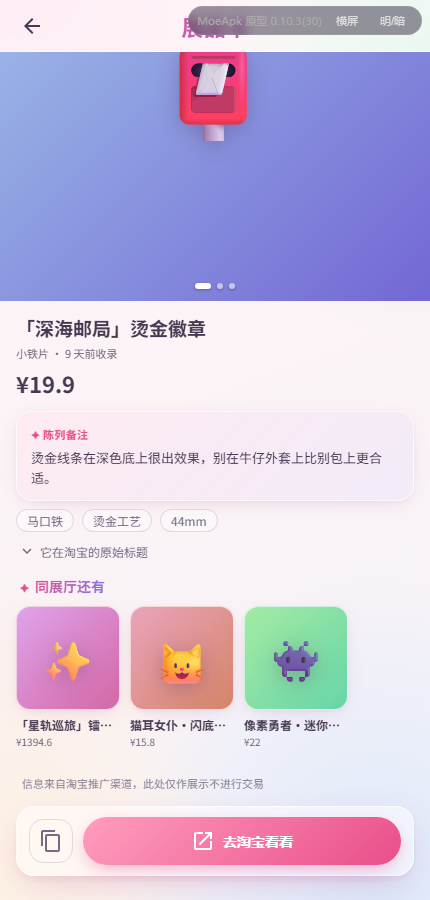
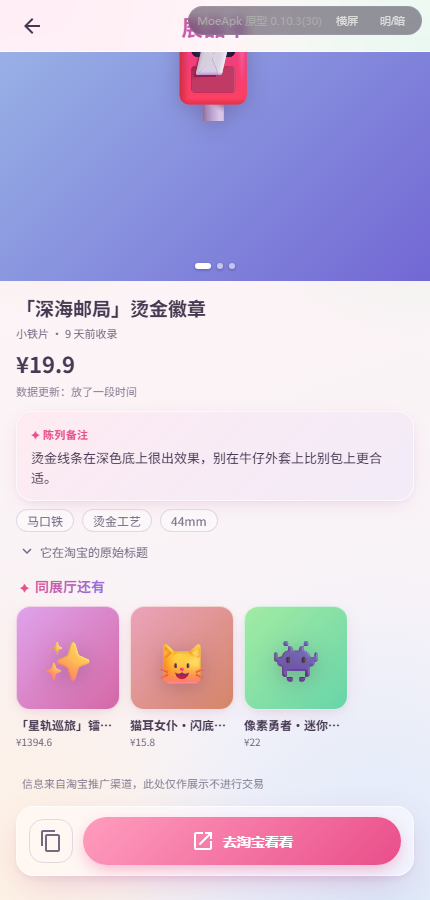
原型: 数据落灰度——详情页价格行下小字「数据更新：…」五档文案（刚刚擦新/放了两三天了/放了一段时间/有点落灰了/落灰了），失效展品恒为「这是古董」；依据 feed fresh_days（数据年龄）而非收录天数；演示数据补五档样本；资源版本号 v=43；PROTO_COMMIT 更新至 5223965；走查留档 shot-43

Changed region(s): [[0.0, 0.28, 1.0, 0.4667], [0.393, 0.0311, 0.5744, 0.1556]]

diff --git a/js/data/goods.js b/js/data/goods.js
@@ -10,6 +10,7 @@
 //   price  真实价（非引流最低价）；list 为淘宝划线价（可无）——feed 契约均为字符串，渲染端须兼容
 //   days   收录天数；tpwd 为预生成淘口令（真实环境由服务端 taobao.tbk.tpwd.create 预生成）
 //   stale  可能已失效标记（后台手动刷新时联盟查无此商品）：不下架、保留展示，详情页提示可搜同款
+//   fresh_days 数据年龄（距最近一次联盟核实的天数，服务端算出）：详情页落灰度文案依据
 //   图片一律 emoji + 色相（hue）渐变占位——原型不内嵌任何外部图片。
 window.DB = window.DB || {};
 
@@ -52,15 +53,15 @@ window.DB.GOODS_HOME = {
 
 window.DB.GOODS = [
   // ---------- 小铁片 ----------
-  { id: 'g01', cat: 'badge', title: '「星轨巡旅」镭射吧唧六枚组', price: 25.9, list: 32, emoji: '✨', hue: 290, days: 2,
+  { id: 'g01', cat: 'badge', title: '「星轨巡旅」镭射吧唧六枚组', price: 25.9, list: 32, emoji: '✨', hue: 290, days: 2, fresh_days: 0,
     note: '镭射底在光下会慢慢转色，别在帆布包肩带上正好。这家的边缘打磨得干净，不割手。',
     origin: '【正版授权】星轨巡旅吧唧徽章二次元周边谷子马口铁胸针58mm镭射闪底吧唧套装动漫挂件生日礼物送女友闺蜜',
     attrs: ['马口铁', '58mm', '6 枚装', '镭射闪底'], tpwd: '￥Xk72QpLm91￥' },
-  { id: 'g02', cat: 'badge', title: '猫耳女仆·闪底吧唧', price: 15.8, emoji: '🐱', hue: 340, days: 5,
+  { id: 'g02', cat: 'badge', title: '猫耳女仆·闪底吧唧', price: 15.8, emoji: '🐱', hue: 340, days: 5, fresh_days: 2,
     note: '细闪底不浮夸，女仆猫的表情画得很欠揍（褒义）。单枚包邮，凑包友好。',
     origin: '二次元猫耳女仆吧唧徽章动漫周边谷子闪底马口铁胸针学生书包挂件装饰可爱萌系生日礼物',
     attrs: ['马口铁', '58mm', '单枚'], tpwd: '￥Ab39TzWq20￥' },
-  { id: 'g03', cat: 'badge', title: '「深海邮局」烫金徽章', price: 19.9, emoji: '📮', hue: 210, days: 9,
+  { id: 'g03', cat: 'badge', title: '「深海邮局」烫金徽章', price: 19.9, emoji: '📮', hue: 210, days: 9, fresh_days: 5,
     note: '烫金线条在深色底上很出效果，别在牛仔外套上比别包上更合适。',
     origin: '深海邮局烫金徽章原创二次元周边金属质感胸针文艺复古挂件配饰学生礼物',
     attrs: ['马口铁', '烫金工艺', '44mm'], tpwd: '￥Qw81LmZx55￥' },
@@ -70,7 +71,7 @@ window.DB.GOODS = [
     attrs: ['马口铁', '32mm', '4 枚装'], tpwd: '￥Mn54KpWq83￥' },
 
   // ---------- 塑料片 ----------
-  { id: 'g05', cat: 'acrylic', title: '「放学后的天文部」立牌', price: 32, emoji: '🔭', hue: 250, days: 1,
+  { id: 'g05', cat: 'acrylic', title: '「放学后的天文部」立牌', price: 32, emoji: '🔭', hue: 250, days: 1, fresh_days: 10,
     note: '彩窗式印刷，逆光摆在窗台上效果最好。底座咬合紧，不会松松垮垮。',
     origin: '放学后的天文部亚克力立牌二次元动漫周边原创谷子桌面摆件学生生日礼物收藏',
     attrs: ['亚克力', '15cm', '含底座'], tpwd: '￥Zx20VbNm47￥' },
@@ -88,7 +89,7 @@ window.DB.GOODS = [
     note: '这个价位里少见的场景底座，苔藓和石灯都有细节。裙摆渐变涂装没翻车。',
     origin: '庭院深深1/7手办完成品二次元动漫周边模型摆件生日礼物收藏级正版授权',
     attrs: ['PVC 完成品', '1/7', '约 24cm'], tpwd: '￥Cv55NbMz74￥' },
-  { id: 'g09', cat: 'figure', title: 'Q版魔王·盒蛋随机款', price: 59, emoji: '😈', hue: 270, days: 6,
+  { id: 'g09', cat: 'figure', title: 'Q版魔王·盒蛋随机款', price: 59, emoji: '😈', hue: 270, days: 6, fresh_days: 20,
     note: '全 6 款随机，隐藏款是魔王打瞌睡。盒蛋的乐趣就是赌，量力而行。',
     origin: 'Q版魔王盒蛋盲盒手办二次元动漫周边桌面摆件随机款生日礼物',
     attrs: ['PVC', '约 8cm', '随机款'], tpwd: '￥Ty17WxQb66￥' },

diff --git a/index.html b/index.html
@@ -6,7 +6,7 @@
 <title>MoeApk App 原型</title>
 <meta name="theme-color" content="#E94E8A">
 <link rel="icon" type="image/png" href="assets/ic_launcher_fg.png">
-<link rel="stylesheet" href="css/app.css?v=42">
+<link rel="stylesheet" href="css/app.css?v=43">
 </head>
 <body>
 <div class="proto-bar">
@@ -19,30 +19,30 @@
 </div>
 
 <!-- 数据快照（内嵌为全局变量，file:// 直接可开） -->
-<script src="js/data/catalog.js?v=42"></script>
-<script src="js/data/open.js?v=42"></script>
-<script src="js/data/ai.js?v=42"></script>
-<script src="js/data/goods.js?v=42"></script>
+<script src="js/data/catalog.js?v=43"></script>
+<script src="js/data/open.js?v=43"></script>
+<script src="js/data/ai.js?v=43"></script>
+<script src="js/data/goods.js?v=43"></script>
 <!-- 核心层 -->
-<script src="js/icons.js?v=42"></script>
-<script src="js/theme.js?v=42"></script>
-<script src="js/store.js?v=42"></script>
-<script src="js/mock.js?v=42"></script>
-<script src="js/ui.js?v=42"></script>
+<script src="js/icons.js?v=43"></script>
+<script src="js/theme.js?v=43"></script>
+<script src="js/store.js?v=43"></script>
+<script src="js/mock.js?v=43"></script>
+<script src="js/ui.js?v=43"></script>
 <!-- 页面（与 Compose 源文件一一对照，见 README 对照表） -->
-<script src="js/screens/apk.js?v=42"></script>
-<script src="js/screens/goods.js?v=42"></script>
-<script src="js/screens/assets.js?v=42"></script>
-<script src="js/screens/ai.js?v=42"></script>
-<script src="js/screens/ai-llm.js?v=42"></script>
-<script src="js/screens/ai-diffusion.js?v=42"></script>
-<script src="js/screens/ai-tts.js?v=42"></script>
-<script src="js/screens/ai-models.js?v=42"></script>
-<script src="js/screens/download.js?v=42"></script>
-<script src="js/screens/mine.js?v=42"></script>
-<script src="js/screens/pages-account.js?v=42"></script>
-<script src="js/screens/about.js?v=42"></script>
-<script src="js/screens/wallpaper-dialog.js?v=42"></script>
+<script src="js/screens/apk.js?v=43"></script>
+<script src="js/screens/goods.js?v=43"></script>
+<script src="js/screens/assets.js?v=43"></script>
+<script src="js/screens/ai.js?v=43"></script>
+<script src="js/screens/ai-llm.js?v=43"></script>
+<script src="js/screens/ai-diffusion.js?v=43"></script>
+<script src="js/screens/ai-tts.js?v=43"></script>
+<script src="js/screens/ai-models.js?v=43"></script>
+<script src="js/screens/download.js?v=43"></script>
+<script src="js/screens/mine.js?v=43"></script>
+<script src="js/screens/pages-account.js?v=43"></script>
+<script src="js/screens/about.js?v=43"></script>
+<script src="js/screens/wallpaper-dialog.js?v=43"></script>
 <script>
   nav.applyHash();
 </script>

diff --git a/js/screens/goods.js b/js/screens/goods.js
@@ -16,6 +16,19 @@
     return '¥' + (n % 1 ? String(Math.round(n * 100) / 100) : String(n));
   };
 
+  // 数据落灰度文案（对应 feed 的 fresh_days：距最近一次联盟核实的天数）：
+  // 今天=刚刚擦新 / ≤3 天=放了两三天了 / ≤7 天=放了一段时间 / ≤14 天=有点落灰了 / 更久=落灰了；
+  // 失效（stale）展品恒为「这是古董」。旧数据缺 fresh_days 时回落收录天数。
+  function freshText(g) {
+    if (g.stale) return '这是古董';
+    const d = g.fresh_days == null ? (g.days || 0) : g.fresh_days;
+    if (d <= 0) return '刚刚擦新';
+    if (d <= 3) return '放了两三天了';
+    if (d <= 7) return '放了一段时间';
+    if (d <= 14) return '有点落灰了';
+    return '落灰了';
+  }
+
   // 按 seed 稳定的伪随机：换一批 / 随手翻翻 改变 seed 重排，render 之间不漂移
   function rng(seed) {
     let t = seed >>> 0;
@@ -200,6 +213,8 @@
       h += '<div class="g-d-price-row"><span class="g-d-price">' + fmtPrice(g.price) + '</span>' +
         (g.list ? '<span class="g-d-list">' + fmtPrice(g.list) + '</span><span class="g-d-list-note">为淘宝标价</span>' : '') +
         '</div>';
+      // 数据落灰度（坦诚路线：数据不可能时刻全新，如实告知）
+      h += '<div class="g-d-fresh">数据更新：' + freshText(g) + '</div>';
       // 陈列备注（AI 生成 + 人工抽查，抽查可关）
       h += '<div class="g-note"><div class="g-note-label">✦ 陈列备注</div>' + esc(g.note) + '</div>';
       h += '<div class="chip-row g-attrs">' + g.attrs.map(assistChip).join('') + '</div>';

diff --git a/css/app.css b/css/app.css
@@ -1276,6 +1276,8 @@ body, .card, .li, .topbar, .navbar, .chip, .btn, .tbtn, .field-input,
 .g-stale .ic { width: 16px; height: 16px; flex-shrink: 0; margin-top: 1px; }
 /* 瀑布卡失效淡标记 */
 .g-fall-stale { font-size: 10px; color: var(--on-surface-variant); border: 1px solid var(--outline-variant); border-radius: 6px; padding: 0 4px; margin-left: 6px; }
+/* 详情页数据落灰度（小字灰） */
+.g-d-fresh { font-size: 11px; color: var(--on-surface-variant); margin-top: 4px; opacity: .85; }
 
 /* 底部 CTA：sticky 玻璃条（沿用 batch-bar 模式） */
 .g-cta {

diff --git a/js/screens/about.js b/js/screens/about.js
@@ -3,7 +3,7 @@
 // 原型版本约定：PROTO_COMMIT / PROTO_DATE 记录本原型自身的 git 提交，
 // 由维护者在每次提交前更新为当前 HEAD（提交者无需处理）。
 // App 关于页显示同形态的一行，值为其 UX 同步所依据的原型提交。
-const PROTO_COMMIT = '2a6f6bb';
+const PROTO_COMMIT = '5223965';
 const PROTO_DATE = '2026-10-09';
 const PROTO_COMMIT_URL = 'https://github.com/Attect/moeapk-app-ux/commit/';
 

diff --git a/docs/design-notes.md b/docs/design-notes.md
@@ -74,6 +74,8 @@
 
 **失效标记（2026-10-09 定案）**：商品失效**不下架、保留展示**（用户可能去搜同款）——后台手动「刷新价格/有效性」时联盟查无此商品则标 `stale` 随 feed 下发；详情页 CTA 上方提示「可复制原始标题去淘宝搜同款」，瀑布卡淡标记「或已绝版」。价格漂移（到手价较收录价 ±30%）仅作后台徽标提醒复核，不下发 App。不做定时自动刷新。
 
+**数据落灰度（2026-10-09）**：数据会累积、不可能时刻全量刷新，详情页如实告知数据年龄（价格行下小字「数据更新：…」）：feed 下发 `fresh_days`（距最近一次联盟核实的天数，服务端算），展示层映射五档——0「刚刚擦新」/ ≤3「放了两三天了」/ ≤7「放了一段时间」/ ≤14「有点落灰了」/ 更久「落灰了」；失效展品恒为「这是古董」。注意它跟踪 `refreshed_at`（数据核实时间）而非 `added_at`（收录时间）——改标题不等于价格重新核实过。
+
 ### 第十六轮（2026-09-30，设置面板可隐藏 + 壁纸被系统重置后一步恢复）
 
 **起因**（真机反馈两连）：
